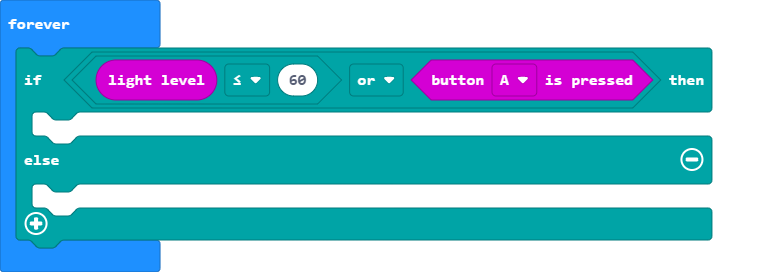
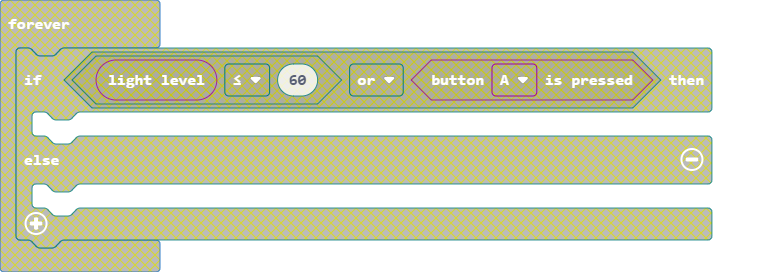
Ferdig dokkumentasjon

diff --git a/main.ts b/main.ts
@@ -19,10 +19,3 @@ basic.forever(function () {
         basic.showIcon(IconNames.Happy)
     }
 })
-basic.forever(function () {
-    if (input.lightLevel() <= 60 || input.buttonIsPressed(Button.A)) {
-    	
-    } else {
-    	
-    }
-})

diff --git a/myrobot2v21.md b/myrobot2v21.md
@@ -111,7 +111,121 @@ Tidligere sa vi også at det er lurt og ha med en test, denne la vi på knapp A,
 
 ## Handling når ting stemmer
 
-Nå må vi gå løs på hva som skal skje når det blir mørkt eller vi trykker knapp a
+Nå må vi gå løs på hva som skal skje når det blir mørkt eller vi trykker knapp A
+
+Vi vil at den skal vinke og blinke 6 ganger hver gang IF/ELLER stemmer, dvs. at lyset blir under 60 eller knapp A trykkes, til dette trenger vi en ``||loops: loops||``
+
+```block
+for (let index = 0; index < 6; index++) {
+        	
+        }
+```
+Inne i ``||loops: løkken||`` må fortelle hva som skal skje, vi bruker det samme som ved start for å styre lysene og armen
+
+```block
+pins.digitalWritePin(DigitalPin.P2, 0)
+pins.servoWritePin(AnalogPin.P0, 10)
+```
+Vi legger også inn et ikon og en liten pause, vi bruker pausen for at servoen skal få tid til å fullføre bevegelsen
+```block
+basic.showIcon(IconNames.Heart)
+basic.pause(200)
+```
+Pause finner vi under ``||basic: basic||``
+
+Vi må nå da sette dette sammen slik at vi får den til å vinke og blunke, som vist under:
+
+```blocks
+basic.forever(function () {
+    if (input.lightLevel() < 60 || input.buttonIsPressed(Button.A)) {
+        for (let index = 0; index < 6; index++) {
+            pins.digitalWritePin(DigitalPin.P2, 1)
+            pins.servoWritePin(AnalogPin.P0, 65)
+            basic.showIcon(IconNames.Heart)
+            basic.pause(200)
+            pins.digitalWritePin(DigitalPin.P2, 0)
+            pins.servoWritePin(AnalogPin.P0, 10)
+            basic.pause(200)
+            basic.showIcon(IconNames.SmallHeart)
+        }
+```
+### ~alert
+
+#### Se nøye på tallene i servo write pin og digital write pin
+I del en av løkken (før og etter pause) byttes servo tallet til 65, dette løfter armen, og lysene blir også satt til 1, altså på, i neste del senker vi armen til ved å sette servo til 10 også slukker vi lysene.
+Vi endrer også ikonet.
+### ~
+
+
+## Hva skal skje når handlingen er utført?
+
+Når hanslingen over er ferdig eller den ikke er utløst må vi gå tilbake til utgandspunktet, dette gjør vi ELSE delen av testen vår, dette vil jo også skje når handlingen er utført.
+
+Vi kopierer da det vi har i ``||basic: on start||`` og får da følgende kode
+
+```blocks
+basic.forever(function () {
+    if (input.lightLevel() < 60 || input.buttonIsPressed(Button.A)) {
+        for (let index = 0; index < 6; index++) {
+            pins.digitalWritePin(DigitalPin.P2, 1)
+            pins.servoWritePin(AnalogPin.P0, 65)
+            basic.showIcon(IconNames.Heart)
+            basic.pause(200)
+            pins.digitalWritePin(DigitalPin.P2, 0)
+            pins.servoWritePin(AnalogPin.P0, 10)
+            basic.pause(200)
+            basic.showIcon(IconNames.SmallHeart)
+        }
+    } else {
+        pins.digitalWritePin(DigitalPin.P2, 0)
+        pins.servoWritePin(AnalogPin.P0, 30)
+        basic.showIcon(IconNames.Happy)
+    }
+})
+```
+
+## Da er vi ferdige
+
+Koden er nå ferdig og bør se ut som denne?
+
+```blocks
+basic.showIcon(IconNames.Happy)
+pins.digitalWritePin(DigitalPin.P2, 0)
+pins.servoWritePin(AnalogPin.P0, 30)
+basic.forever(function () {
+    if (input.lightLevel() < 60 || input.buttonIsPressed(Button.A)) {
+        for (let index = 0; index < 6; index++) {
+            pins.digitalWritePin(DigitalPin.P2, 1)
+            pins.servoWritePin(AnalogPin.P0, 65)
+            basic.showIcon(IconNames.Heart)
+            basic.pause(200)
+            pins.digitalWritePin(DigitalPin.P2, 0)
+            pins.servoWritePin(AnalogPin.P0, 10)
+            basic.pause(200)
+            basic.showIcon(IconNames.SmallHeart)
+        }
+    } else {
+        pins.digitalWritePin(DigitalPin.P2, 0)
+        pins.servoWritePin(AnalogPin.P0, 30)
+        basic.showIcon(IconNames.Happy)
+    }
+})
+```
+
+Da er tiden inne for å overføre koden, sette inn batteriet (Dette treger man for å drive servoen som gjør at armen vireker) og teste
+
+##Hvordan teste?
+
+På micro:bit er den midterste av lysdiodene foran også en lyssensor, ved å holde over denne blir lyset under 60 og roboten bør da vinke og blunke 6 ganger, gjør den ikke det kan du forsøke å holde knapp A inne litt, for å se om den da gjør som den skal.
+Forsikre deg også om at ikonet du har valgt som start ikon i ``||basic:on start||`` stemmer med koden din, da vet du at koden din er overført
+
+Hvis ingen av delene eller bare noen av de fungerer har det nok oppstått en liten feil et sted, dette er fort gjort, da må man feilsøke litt, så er vi sikker på at du finner feilen.
+
+## Til slutt
+
+Vi håper du har fått roboten til å fungere som den skal, har du dette er du godt på vei til å bli en god programmerer.
+
+Vi ønsker deg lykke til videre i utviklingen din som utvikler.
 
 
 
